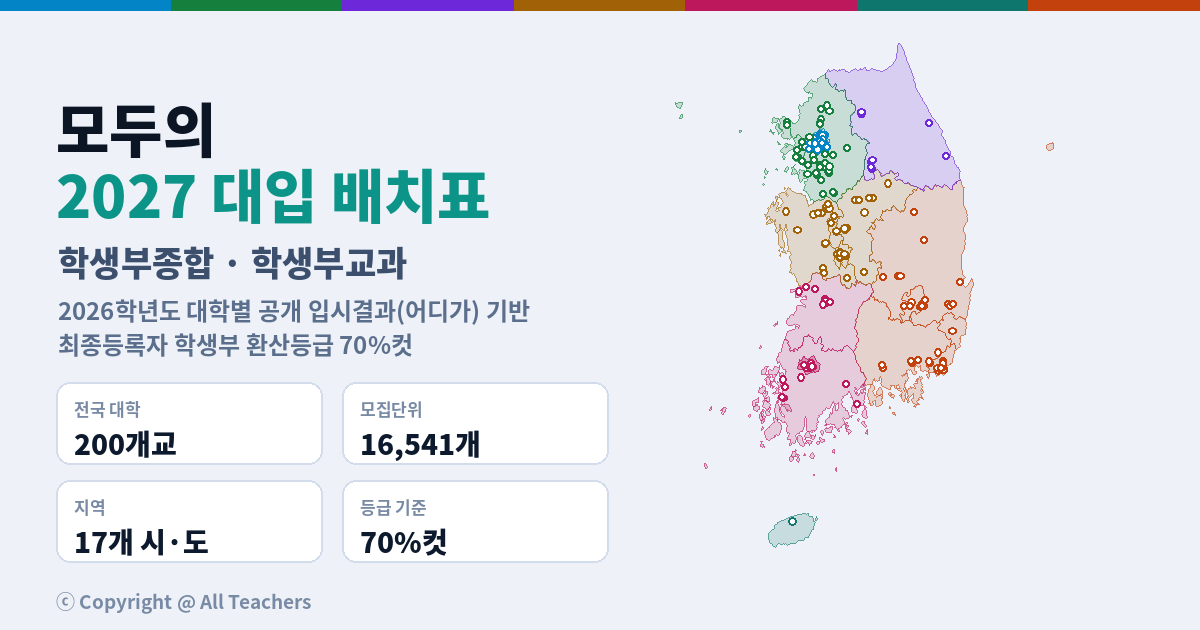
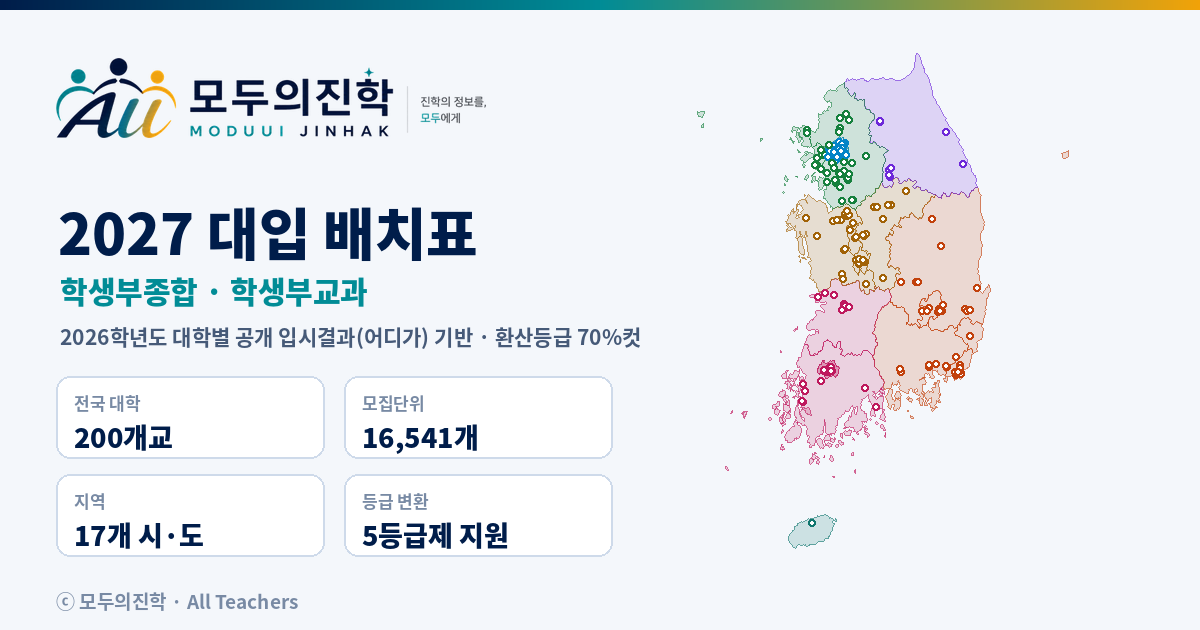
up

diff --git a/index.html b/index.html
@@ -7,19 +7,21 @@
 <meta name="description" content="2026학년도 대학별 공개 입시결과(어디가) 기반 전국 200개교 학생부종합·학생부교과 등급 배치표. 최종등록자 학생부 환산등급 70%컷 기준, 지도·목록·검색으로 대학을 골라 등급대별로 비교합니다.">
 <link rel="icon" type="image/png" href="favicon.png">
 <link rel="apple-touch-icon" href="apple-touch-icon.png">
+<link rel="apple-touch-icon" href="apple-touch-icon.png">
 <meta property="og:type" content="website">
-<meta property="og:title" content="모두의 2027 대입 배치표 · 학생부종합 + 학생부교과">
-<meta property="og:description" content="전국 200개교 · 모집단위 16,541개 · 학생부 환산등급 70%컷 기준 배치표">
+<meta property="og:title" content="모두의진학 | 2027 대입 배치표 · 학생부종합 + 학생부교과">
+<meta property="og:description" content="진학의 정보를, 모두에게 · 전국 200개교 16,541개 모집단위 · 환산등급 70%컷 · 5등급제 변환 지원">
 <meta property="og:image" content="thumbnail.png">
 <meta property="og:image:width" content="1200">
 <meta property="og:image:height" content="630">
 <meta name="twitter:card" content="summary_large_image">
 <meta name="twitter:image" content="thumbnail.png">
-<title>모두의 2027 대입 배치표 · 학생부종합 + 학생부교과</title>
+<title>모두의진학 | 2027 대입 배치표 (학생부종합·학생부교과)</title>
 <link rel="preconnect" href="https://fonts.googleapis.com">
 <link rel="preconnect" href="https://fonts.gstatic.com" crossorigin>
 <link href="https://fonts.googleapis.com/css2?family=Noto+Sans+KR:wght@400;500;700;900&family=JetBrains+Mono:wght@500;700&display=swap" rel="stylesheet">
 <style>
[1 lines of base64/hex data omitted]
 /* ═══════════ 색 토큰 ═══════════ */
 :root{
   --seoul:#38bdf8; --gg:#4ade80; --gw:#a78bfa; --cc:#fbbf24; --jl:#f472b6; --jj:#2dd4bf; --gs:#fb923c;
@@ -37,7 +39,7 @@ html[data-theme="dark"]{
 html[data-theme="light"]{
   --bg:#eef2f8; --surf:#ffffff; --surf2:#f5f8fd; --surf3:#e8eff9;
   --line:#d2dceb; --line2:#adbfd7;
-  --tx:#0c1524; --tx2:#334561; --tx3:#5b6f8c;
+  --tx:#001D4A; --tx2:#2b425f; --tx3:#5b6f8c;
   --shadow:0 6px 20px rgba(20,40,80,.14);
   --mapland:#dde8f6; --mapland2:#cddcef; --mapline:#8aa5c6; --mapsea:#eaf1fa;
   --tint:.13;
@@ -45,10 +47,10 @@ html[data-theme="light"]{
   --g1:#1d4ed8; --g2:#0e7490; --g3:#15803d; --g4:#a16207; --g5:#c2410c; --g6:#b91c1c; --g7:#9f1239;
 }
 /* 전형 탭에 따라 포인트 색이 통째로 바뀝니다 */
-html[data-type="jonghap"]{ --ac:#2dd4bf; --ac-ink:#04231f; --ac-soft:rgba(45,212,191,.15); }
-html[data-type="gyogwa"]{ --ac:#f0a63c; --ac-ink:#241502; --ac-soft:rgba(240,166,60,.15); }
-html[data-theme="light"][data-type="jonghap"]{ --ac:#0d9488; --ac-ink:#ffffff; --ac-soft:rgba(13,148,136,.13); }
-html[data-theme="light"][data-type="gyogwa"]{ --ac:#b45309; --ac-ink:#ffffff; --ac-soft:rgba(180,83,9,.13); }
+html[data-type="jonghap"]{ --ac:#2bb7c2; --ac-ink:#02201f; --ac-soft:rgba(1,140,150,.18); }
+html[data-type="gyogwa"]{ --ac:#f2a308; --ac-ink:#231400; --ac-soft:rgba(242,163,8,.18); }
+html[data-theme="light"][data-type="jonghap"]{ --ac:#018C96; --ac-ink:#ffffff; --ac-soft:rgba(1,140,150,.13); }
+html[data-theme="light"][data-type="gyogwa"]{ --ac:#C07A00; --ac-ink:#ffffff; --ac-soft:rgba(242,163,8,.16); }
 
 *{margin:0;padding:0;box-sizing:border-box;}
 html,body{height:100%;}
@@ -59,7 +61,10 @@ button{cursor:pointer;}
 
 /* ═══════════ 헤더 ═══════════ */
 .hdr{display:flex;align-items:center;gap:14px;flex-wrap:wrap;padding:10px 16px;background:var(--surf);border-bottom:2px solid var(--ac);flex-shrink:0;}
-.brand h1{font-size:18px;font-weight:900;letter-spacing:-.5px;line-height:1.15;}
+.brand{display:flex;flex-direction:column;gap:5px;}
+.logo{width:230px;height:43px;background:var(--logo) no-repeat left center/contain;}
+html[data-theme="dark"] .logo{filter:brightness(1.35) saturate(1.05);}
+.brand h1{font-size:16px;font-weight:900;letter-spacing:-.5px;line-height:1.15;}
 .brand h1 em{font-style:normal;color:var(--ac);}
 .brand h1 .tsub{font-size:12px;font-weight:800;color:var(--tx3);letter-spacing:0;margin-left:4px;}
 .brand p em{font-style:normal;font-weight:900;color:var(--ac);background:var(--ac-soft);border-radius:6px;padding:1px 7px;}
@@ -274,7 +279,8 @@ html[data-theme="dark"][data-scale="5"] .foot .src{color:#c4b5fd;}
   .empty{font-size:7pt!important;padding:1px 0!important;}
   .cut{color:#fff!important;}
   .empty{color:#9fb2cb!important;}
-  .printhead{display:block!important;border-bottom:2.5px solid #0d9488;padding-bottom:6px;margin-bottom:8px;}
+  .printhead{display:block!important;border-bottom:2.5px solid #018C96;padding-bottom:6px;margin-bottom:8px;}
+  .printhead .plogo{width:150px;height:28px;background:var(--logo) no-repeat left center/contain;margin-bottom:3px;}
   .printhead h2{font-size:15pt;font-weight:900;letter-spacing:-.4px;}
   .printhead h2 em{font-style:normal;color:#0d9488;}
   .printhead .meta{display:flex;flex-wrap:wrap;gap:4px 12px;margin-top:4px;font-size:8pt;color:#26364d;font-weight:700;}
@@ -301,7 +307,8 @@ html[data-theme="dark"][data-scale="5"] .foot .src{color:#c4b5fd;}
   .vswitch button{flex:1;border:2px solid var(--line2);background:var(--surf2);color:var(--tx2);border-radius:13px;padding:12px;font-size:14px;font-weight:900;}
   .vswitch button[aria-pressed="true"]{background:var(--ac);border-color:var(--ac);color:var(--ac-ink);}
   .hdr{padding:8px 11px;gap:8px;}
-  .brand h1{font-size:15px;}
+  .logo{width:172px;height:32px;}
+  .brand h1{font-size:14.5px;}
   .brand p{font-size:9.5px;line-height:1.35;}
   .hstats{width:100%;margin-left:0;order:3;gap:5px;}
   .hstat{flex:1;padding:5px 4px;font-size:9.5px;}
@@ -337,7 +344,8 @@ html[data-theme="dark"][data-scale="5"] .foot .src{color:#c4b5fd;}
   html[data-view="table"][data-filters="1"] .bar{display:flex;}
   html[data-view="table"] .hdr{padding:6px 11px;}
   html[data-view="table"] #themeBtn{padding:5px 8px;font-size:10.5px;}
-  html[data-view="table"] .brand h1{font-size:14px;}
+  html[data-view="table"] .brand h1{font-size:13.5px;}
+  html[data-view="table"] .logo{width:140px;height:26px;}
   .mainbar{flex-wrap:nowrap;overflow-x:auto;scrollbar-width:none;padding:7px 9px;}
   .mainbar::-webkit-scrollbar{display:none;}
   .searchbox{flex:0 0 auto;}
@@ -374,7 +382,8 @@ html[data-theme="dark"][data-scale="5"] .foot .src{color:#c4b5fd;}
   .mapwrap{min-height:0;}
 }
 @media (max-width:600px){
-  .brand h1{font-size:13.5px;}
+  .logo{width:150px;height:28px;}
+  .brand h1{font-size:13px;}
   .brand p{font-size:9px;}
   .hstat{font-size:9px;} .hstat b{font-size:12px;}
   .typetabs button{font-size:12px;padding:7px 12px;}
@@ -395,8 +404,9 @@ html[data-theme="dark"][data-scale="5"] .foot .src{color:#c4b5fd;}
 
 <header class="hdr">
   <div class="brand">
+    <div class="logo" role="img" aria-label="모두의진학 - 진학의 정보를, 모두에게"></div>
     <h1>모두의 2027 대입 배치표 <span class="tsub">학생부종합 · 학생부교과</span></h1>
-    <p>ⓒ Copyright @ All Teachers · 2026학년도 대학별 공개 입시결과(어디가) 반영 · 전국 200개교 &nbsp;|&nbsp; 지금 보는 표 <em id="typeName">학생부종합</em></p>
+    <p>ⓒ 모두의진학 · All Teachers · 2026학년도 대학별 공개 입시결과(어디가) 반영 · 전국 200개교 &nbsp;|&nbsp; 지금 보는 표 <em id="typeName">학생부종합</em></p>
   </div>
   <div class="hstats">
     <div class="hstat">대학<b id="stUniv">0</b></div>
@@ -1374,6 +1384,7 @@ function buildPrintHead(cols){
   const ymd = `${d.getFullYear()}.${String(d.getMonth()+1).padStart(2,'0')}.${String(d.getDate()).padStart(2,'0')}`;
   const q = ($('dsearch').value||'').trim();
   $('printhead').innerHTML = `
+    <div class="plogo"></div>
     <h2>모두의 2027 대입 배치표 <em>${S.type==='jonghap'?'학생부종합':'학생부교과'}</em></h2>
     <div class="meta">
       <span>등급 기준 <b>${scaleTxt}</b></span>

diff --git a/README.md b/README.md
@@ -1,4 +1,6 @@
-# 모두의 2027 대입 배치표 (학생부종합 · 학생부교과)
+# 모두의진학 | 2027 대입 배치표 (학생부종합 · 학생부교과)
+
+> 진학의 정보를, 모두에게
 
 전국 200개교의 **2026학년도 대학별 공개 입시결과**(대입정보포털 '어디가' 결과공개 자료)를 기반으로 만든
 등급대별 배치표입니다. 설치·서버 없이 `index.html` 하나로 동작합니다.
@@ -6,8 +8,9 @@
 ## 배포 방법 (GitHub Desktop + GitHub Pages)
 1. 새 저장소를 만들고 이 폴더의 파일을 그대로 복사합니다.
    - `index.html` (본체, 데이터 내장)
-   - `thumbnail.png` (공유 썸네일 1200×630)
-   - `favicon.png`, `apple-touch-icon.png` (아이콘)
+   - `thumbnail.png` (공유 썸네일 1200×630, 로고 포함)
+   - `favicon.png`, `apple-touch-icon.png` (심벌 로고 아이콘)
+   ※ 헤더 로고는 `index.html` 안에 base64로 내장되어 있어 별도 파일이 필요 없습니다.
 2. GitHub Desktop에서 **Commit → Push**
 3. 저장소 **Settings → Pages → Source: main / (root)** 로 설정
 4. 몇 분 뒤 `https://<아이디>.github.io/<저장소명>/` 에서 열립니다.
@@ -20,6 +23,29 @@
 - 수록량: 학생부종합 6,233개 / 학생부교과 10,308개 모집단위 = 합계 16,541개
 - 주간·야간 분리 모집은 모집단위명에 `(야간)` 표기
 - 전형은 일반 / 지역인재 / 기회균형·사회통합 / 정원외로 분류해 필터 제공
+
+## 5등급제 변환 보기
+상단 **[5등급 변환]** 버튼을 누르면 9등급제 결과를 5등급제 값으로 환산해 배치표를 다시 그립니다.
+
+- 환산 근거: **부산광역시교육청학력개발원 진로진학지원센터**
+  「부산광역시교육청 관내 5등급제 고1 1~2학기 등급평균 분석 자료」(88개교 14,331명)
+- 방식: 자료의 **누적비율**을 매개로 9등급 등급평균 → 5등급 등급평균을 선형보간
+  (예: 9등급 3.35 = 상위 17.42% = 5등급 2.00)
+- 각 칸에 5등급 변환값 · 상위 누적비율 · 원자료 9등급값을 함께 표시
+- **참고용 추정치**입니다. 원 자료는 부산 지역 표본이고 대학 발표값은 9등급제이므로,
+  지역·학교·과목 구성에 따라 달라질 수 있습니다.
+
+## 인쇄 · PDF 저장 (A4)
+표 위 **[🖨 인쇄 · PDF]** 버튼(또는 Ctrl/⌘ + P)을 누르면 A4에 맞춰 출력합니다.
+
+- 인쇄용 레이아웃은 **한 모집단위 = 한 줄**로 압축되어 화면보다 훨씬 많은 내용이 들어갑니다
+- 대학 3개교 이상 **가로 용지**, 1~2개교 **세로 용지** 자동 선택
+- 표 크기를 재서 배율을 계산하되 **최소 60%까지만 축소**(그 이하로는 글자가 안 보이므로 축소하지 않고 여러 장으로 출력)
+- 한 장에 안 들어가면 **등급을 0.5 단위로 자동으로 묶어** 다시 맞춥니다(머리글에 안내 표시). 화면에서도 **[등급 0.5 묶기]** 버튼으로 같은 방식으로 볼 수 있습니다
+- 여러 장이 되면 각 장에 **대학명 머리행이 반복**됩니다
+- 인쇄 글자 크기는 pt로 고정: 대학명 10.5pt, 등급 10pt, 모집단위 8pt, 컷 7.6pt
+- 어두운 테마로 보고 있어도 **인쇄는 항상 밝은 색**, 등급 색 밴드는 유지
+- 머리글 자동 생성: 제목 / 전형 / 등급 기준 / 필터 / 검색어 / 대학 목록 / 출력일 / 자료 출처
 
 ## 검증 내역
 - 원본 엑셀 204개 파일에서 **독립 재추출 후 대조: 불일치 0건**
@@ -35,4 +61,4 @@
 - 오른쪽 위 **대학명 검색**으로 바로 추가, **모집단위 검색 + 전국에서 찾기**로 학과 기준 비교가 가능합니다.
 - 표는 한 번에 최대 20개교까지 나란히 비교합니다.
 
-ⓒ Copyright @ All Teachers
+ⓒ 모두의진학 · All Teachers
